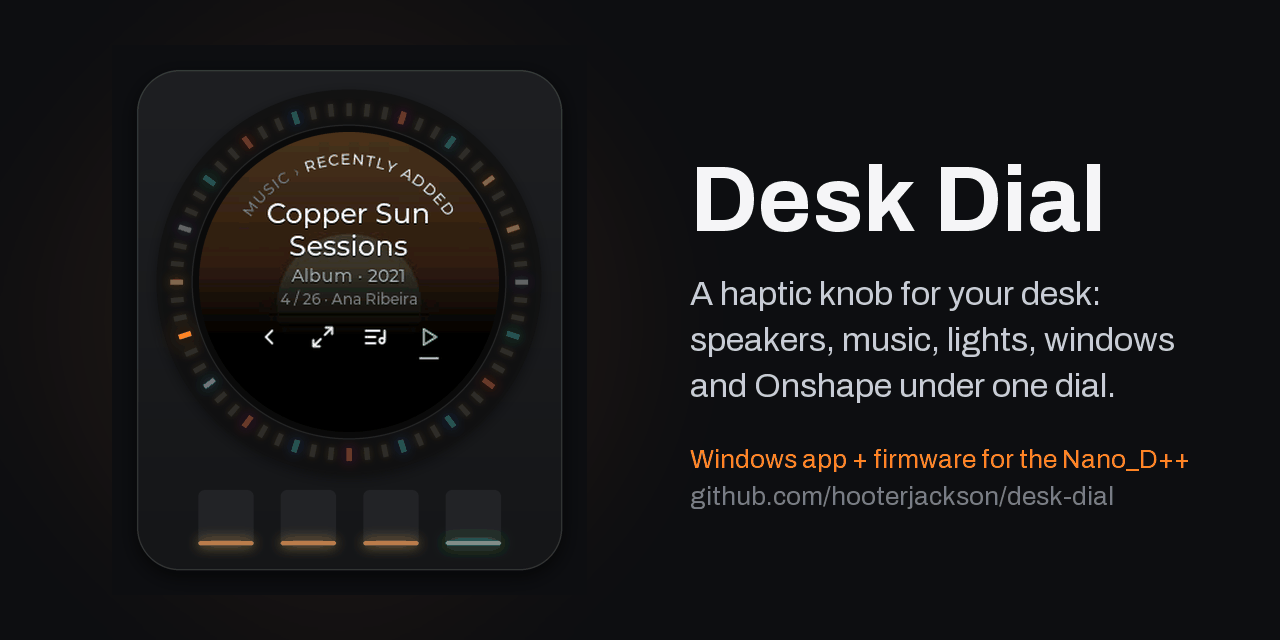
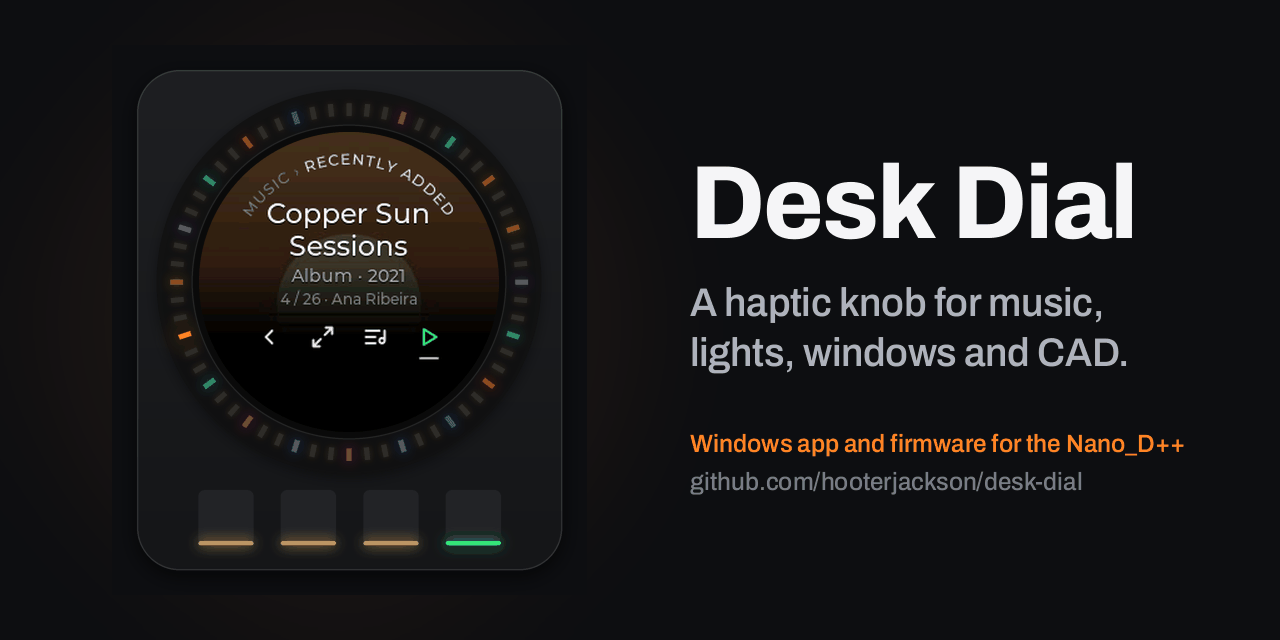
Social preview: README's kerned Archivo and the new one-liner
headlines.typeset() draws one kerned line into any image; social_preview
uses it. Manifest keeps the release stamps; only this file's entry moves.

diff --git a/tools/readme-media/social_preview.py b/tools/readme-media/social_preview.py
@@ -7,22 +7,12 @@ from __future__ import annotations
 
 from pathlib import Path
 
-from PIL import Image, ImageDraw, ImageFilter, ImageFont
+from PIL import Image, ImageDraw, ImageFilter
 
 from scenes_registry import LCD
 
 W, H = 1280, 640
 BG = (13, 14, 17)
-
-
-def _font(app, name, size, weight=None):
-    f = ImageFont.truetype(str(Path(app) / "assets" / "fonts" / name), size)
-    if weight:
-        try:
-            f.set_variation_by_name(weight)
-        except Exception:
-            pass
-    return f
 
 
 def render(ctx, recording_path, photo=None, at_ms=5800):
@@ -46,16 +36,15 @@ def render(ctx, recording_path, photo=None, at_ms=5800):
         knob = frames[0]
     kx, ky = 70 + (560 - knob.width) // 2, (H - knob.height) // 2
     img.paste(knob, (kx, ky))
-    title = _font(ctx.app, "Archivo.ttf", 92, "Bold")
-    body = _font(ctx.app, "Archivo.ttf", 34, "Regular")
-    small = _font(ctx.app, "Archivo.ttf", 26, "Regular")
+    import headlines as T                  # the README's kerned Archivo, so the two read as one family
+    tw = ctx.work / "social-type"
+    tw.mkdir(parents=True, exist_ok=True)
     x = 690
-    d.text((x, 150), "Desk Dial", font=title, fill=(245, 245, 247))
-    lines = ["A haptic knob for your desk:", "speakers, music, lights, windows", "and Onshape under one dial."]
-    for i, line in enumerate(lines):
-        d.text((x, 275 + i * 46), line, font=body, fill=(200, 204, 214))
-    d.text((x, 445), "Windows app + firmware for the Nano_D++", font=small, fill=(255, 132, 36))
-    d.text((x, 482), "github.com/hooterjackson/desk-dial", font=small, fill=(120, 124, 134))
+    T.typeset(d, ctx.app, tw, "Desk Dial", 104, 760, (x, 238), (245, 245, 247))
+    for i, line in enumerate(["A haptic knob for music,", "lights, windows and CAD."]):
+        T.typeset(d, ctx.app, tw, line, 40, 560, (x, 316 + i * 50), (174, 178, 188), tracking=-0.01)
+    T.typeset(d, ctx.app, tw, "Windows app and firmware for the Nano_D++", 25, 560, (x, 452), (255, 132, 36), tracking=0)
+    T.typeset(d, ctx.app, tw, "github.com/hooterjackson/desk-dial", 25, 500, (x, 490), (120, 124, 134), tracking=0)
     out = ctx.out / "social-preview.png"
     q = img.quantize(colors=256, method=Image.Quantize.MEDIANCUT, dither=Image.Dither.FLOYDSTEINBERG)
     q.save(out, optimize=True)

diff --git a/tools/readme-media/headlines.py b/tools/readme-media/headlines.py
@@ -180,6 +180,22 @@ def render(key: str, theme: str, faces: dict) -> Image.Image:
     return img.resize((W // SS, int(H) // SS), Image.LANCZOS)
 
 
+def typeset(draw, app: Path, work: Path, text: str, px: float, weight: float, xy, fill, tracking=TRACKING):
+    """Draw one kerned line with its left end at xy (x, baseline); for other images (social preview)."""
+    global TRACKING
+    face = Face(Path(app) / "assets" / "fonts" / "Archivo.ttf", weight, WIDTH, Path(work))
+    saved, TRACKING = TRACKING, tracking
+    try:
+        chars, width = face.layout(text, px)
+    finally:
+        TRACKING = saved
+    font = face.pil(int(round(px)))
+    for ch, x in chars:
+        if ch != " ":
+            draw.text((xy[0] + x, xy[1]), ch, font=font, fill=fill, anchor="ls")
+    return width
+
+
 def render_all(app: Path, out: Path, work: Path, keys=None, log=print) -> list[Path]:
     work.mkdir(parents=True, exist_ok=True)
     src = Path(app) / "assets" / "fonts" / "Archivo.ttf"

diff --git a/docs/media/README.md b/docs/media/README.md
@@ -78,7 +78,7 @@ Rendered by `tools/readme-media/render_all.py` from fictional data (see `tools/r
 | settings-knob.png | 26,291 | 616x1392 | 1 |  |
 | settings-music.png | 19,131 | 616x1093 | 1 |  |
 | settings-windows.png | 15,520 | 616x1093 | 1 |  |
-| social-preview.png | 61,863 | 1280x640 | 1 |  |
+| social-preview.png | 61,320 | 1280x640 | 1 |  |
 | sound-bank-dark.png | 63,263 | 1100x674 | 1 |  |
 | sound-bank.png | 59,148 | 1100x674 | 1 |  |
 | story-day.gif | 1,764,619 | 276x320 | 156 | 8.67 |
